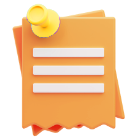
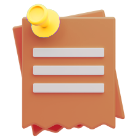
updatingOrangeColor

diff --git a/style.css b/style.css
@@ -25,6 +25,7 @@
     display: flex;
     align-items: center;
     background-image: linear-gradient(to right, #ff9966, #ff5e62);
+    background: #AA4E2A;
     color: #fff;
     font-size: 16px;
     outline: 0;
